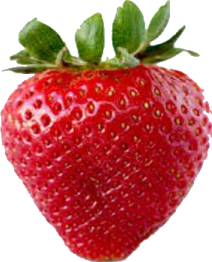
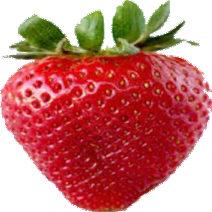
kinda rotates wrong

diff --git a/Strawberryizer.cpp b/Strawberryizer.cpp
@@ -89,7 +89,7 @@ int main(int argc, char** argv)
         // Loop over all the images provided on the command line.
         std::cout << "processing image " << "a" << std::endl;
         dlib::array2d<dlib::rgb_pixel> img;
-        load_image(img, "test.jpg");
+        load_image(img, "testR.jpg");
         // Make the image larger so we can detect small faces.
         //pyramid_up(img);
 
@@ -103,7 +103,7 @@ int main(int argc, char** argv)
         std::vector<dlib::full_object_detection> shapes;
         for (unsigned long j = 0; j < dets.size(); ++j)
         {
-            cv::Mat input = cv::imread("test.jpg");//todo hardcode
+            cv::Mat input = cv::imread("testR.jpg");//todo hardcode
 
             dlib:: full_object_detection shape = sp(img, dets[j]);
             
@@ -141,16 +141,35 @@ int main(int argc, char** argv)
             dlib::point left = shape.part(0);
             dlib::point right = shape.part(16);
             dlib::point bottom = shape.part(8);
+            dlib::point top = shape.part(27);
             std::cout << right.x() << "-" << left.x() << std::endl;
-            cv::resize(strawberry, strawberry, cv::Size(right.x() - left.x(), std::min(std::max((int)(bottom.y() - left.y()) * 2, (int) bottom.y()), input.rows)), 0, 0, cv::INTER_CUBIC);//todo no inter cubic?
+            float angle = std::atan((top.y() - bottom.y()) / (top.x() - bottom.x())) * 180 / 3.14159;
+            std::cout << "pog " << angle << std::endl;
+            std::cout << (std::atan(top.y() - bottom.y()) / (top.x() - bottom.x())) << std::endl;
+            int width = std::sqrt(std::pow(right.x() - left.x(), 2) + std::pow(right.y() - left.y(), 2)) * 1.5;
+            int height = std::sqrt(std::pow(bottom.x() - top.x(), 2) + std::pow(bottom.y() - top.y(), 2)) * 2;
+            int x = top.x();
+            int y = top.y();
+            std::cout << angle << " degrees, pos: (" << x << "," << y << "), size: (" << width << "," << height << ")" << std::endl;
+            cv::resize(strawberry, strawberry, cv::Size(width, height), 0, 0, cv::INTER_CUBIC);//todo no inter cubic?
+            
+            cv::Point2f center((strawberry.cols - 1) / 2.0, (strawberry.rows - 1) / 2.0);
+            cv::Mat strawberryRot = cv::getRotationMatrix2D(center, angle, 1.0);
+            //cv::Rect2f boundingBox = cv::RotatedRect(cv::Point2f(), strawberry.size(), angle).boundingRect2f();
+            //strawberryRot.at<double>(0, 2) += boundingBox.width / 2.0 - strawberry.cols / 2.0;
+            //strawberryRot.at<double>(1, 2) += boundingBox.height / 2.0 - strawberry.rows / 2.0
 
             cv::Mat strawberryFix = cv::Mat(input.rows, input.cols, CV_8UC4, cv::Scalar(0, 0, 0, 0));
             std::cout << strawberry.cols << "," << strawberry.rows << ",,,," << strawberryFix.cols << ", " << strawberryFix.rows << std::endl;
             std::cout << strawberryFix.cols << ", " << strawberryFix.rows << ",,,," << left.x() << "," << left.y() << std::endl;
-            strawberry.copyTo(strawberryFix(cv::Rect(left.x(), 0, strawberry.cols, strawberry.rows)));
+            
+            strawberry.copyTo(strawberryFix(cv::Rect(x - width / 2, y - height / 2, strawberry.cols, strawberry.rows)));
+            cv::warpAffine(strawberryFix, strawberryFix, strawberryRot, strawberryFix.size());
             std::cout << strawberryFix.cols << ", " << strawberryFix.rows << "," << input.cols << "," << input.rows << std::endl;
 
             cv::bitwise_xor(strawberryFix, mask, strawberryFix);
+
+
 
             
             cv::Mat result(input.rows, input.cols, CV_8UC3);
